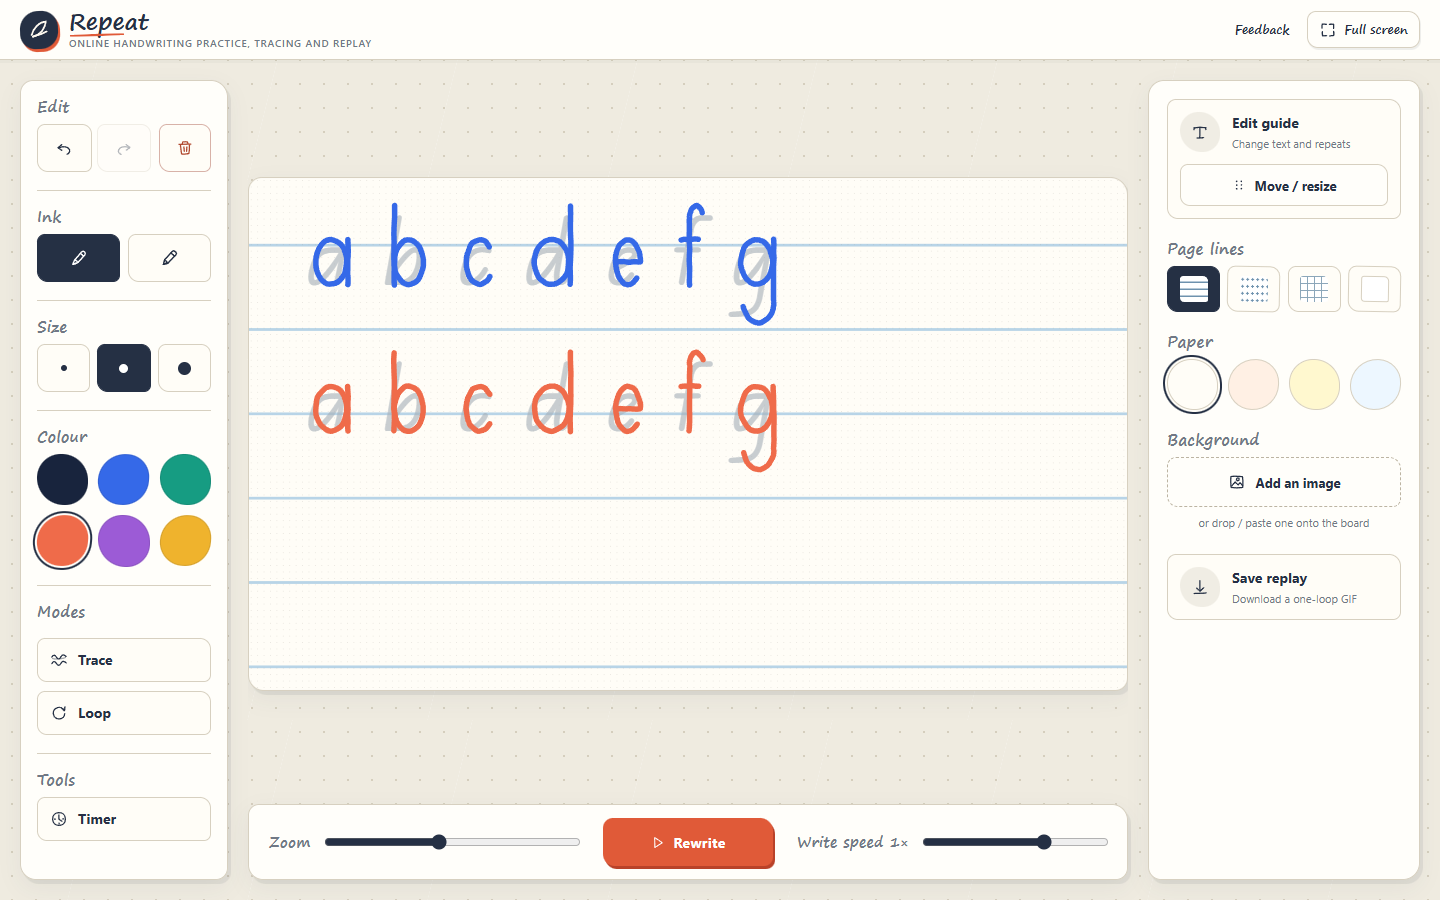
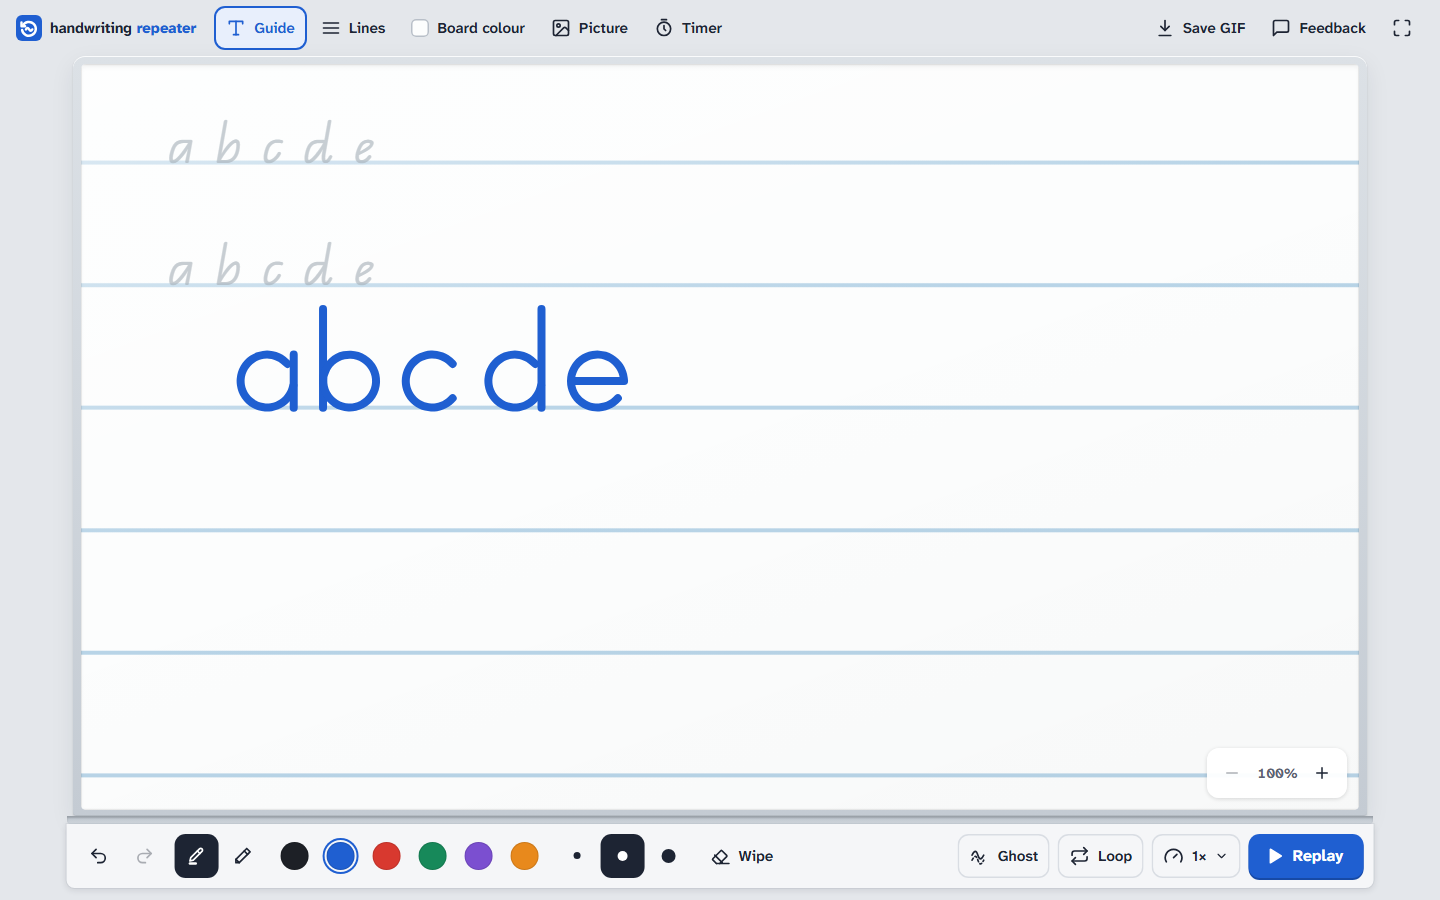
docs: new README screenshots + social preview, rename to Handwriting Repeater

diff --git a/README.md b/README.md
@@ -1,21 +1,21 @@
-# Repeat
+# Handwriting Repeater
 
 [![CI](https://github.com/DanielSayer/handwriting-repeater/actions/workflows/ci.yml/badge.svg)](https://github.com/DanielSayer/handwriting-repeater/actions/workflows/ci.yml)
 
 **Practise your handwriting, then watch it come back to life.**
 
-Repeat is a free online whiteboard for handwriting practice. Write on the page, trace over letters or pictures, and then replay your writing stroke by stroke, at the speed you wrote it. When you're happy with it, save it as an animated GIF to share.
+Handwriting Repeater is a free online whiteboard for handwriting practice. Write on the board, trace over letters or pictures, and then replay your writing stroke by stroke, at the speed you wrote it. When you're happy with it, save it as an animated GIF to share.
 
 **[Try it at handwriting-repeater.com](https://www.handwriting-repeater.com/)**. Nothing to install, no account needed.
 
-![The Repeat whiteboard with traced letters](docs/images/hero.png)
+![The Handwriting Repeater whiteboard with guide letters and handwriting](docs/images/hero.png)
 
 ## What you can do
 
 - **Write naturally.** Use a marker or pencil and pick any colour and thickness.
-- **Practise with guides.** Turn on lined paper, or type a word and have it repeated across the page to copy. Drag guides around, resize them, and pick a handwriting font.
-- **Trace a picture.** Add a photo or worksheet behind the page and fade it so it's easy to trace.
-- **Watch it back.** Replay your writing at its real pace, speed it up or slow it down, or set it to loop.
+- **Practise with guides.** Turn on ruled lines, dots or a grid, or type a word and have it repeated across the page to copy. Drag guides around, resize them, and pick a handwriting font.
+- **Trace a picture.** Add a photo or worksheet behind the board and fade it so it's easy to trace.
+- **Watch it back.** Replay your writing at its real pace, speed it up or slow it down, or set it to loop. Turn on **Ghost** to keep a faint copy showing while it replays.
 - **Share it.** Save the replay as an animated GIF.
 - **Made for the classroom.** Built for desktop and laptop screens, so you can project it onto the class whiteboard and write live in front of students.
 
@@ -28,7 +28,7 @@ Great for teachers modelling letter formation, kids learning to write, and anyon
 
 ## Your work stays yours
 
-Repeat runs entirely in your browser. Your drawings and pictures are never uploaded anywhere. They're saved on your own device, so they'll still be there next time you open the site in the same browser.
+Handwriting Repeater runs entirely in your browser. Your drawings and pictures are never uploaded anywhere. They're saved on your own device, so they'll still be there next time you open the site in the same browser.
 
 Keep in mind:
 
